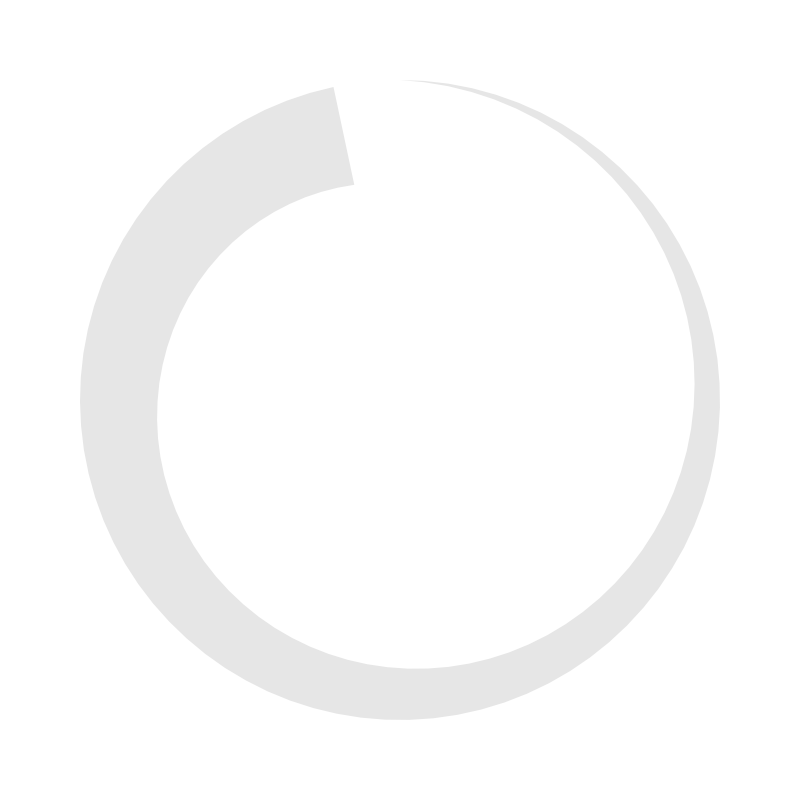
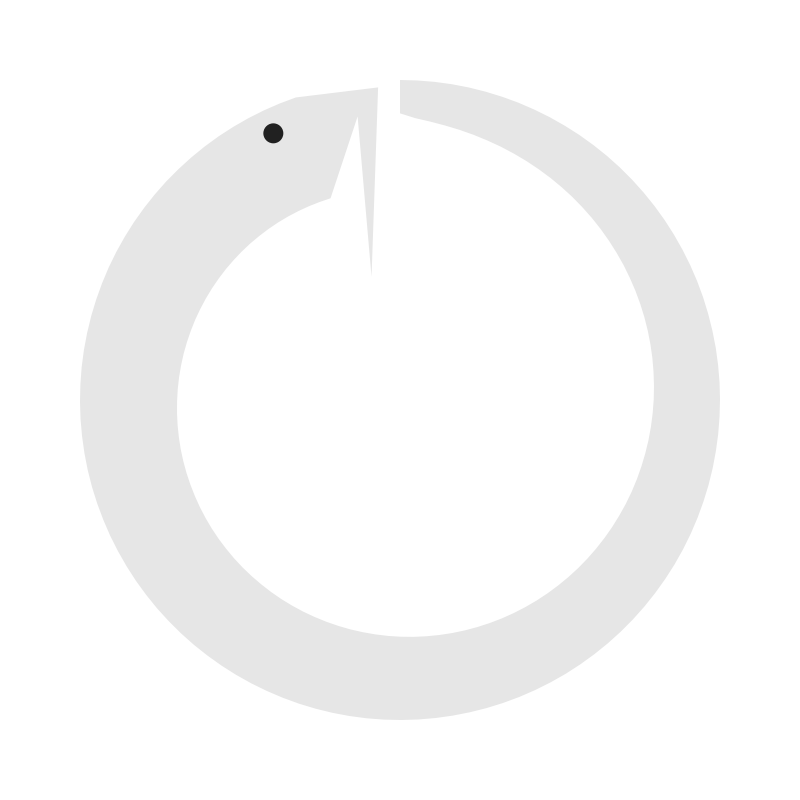
various fixes to right image

Changed region(s): [[0.1875, 0.0938, 0.875, 0.8438], [0.3125, 0.1562, 0.375, 0.1875]]

diff --git a/src/index.html b/src/index.html
@@ -8,21 +8,21 @@
         <link rel="stylesheet" href="styles.css">
     </head>
     <body>
+        <svg class="ouroboros" viewBox="12 12 96 96" aria-hidden="true">
+            <path d="M 60.00,12.00 L 62.60,12.07 L 65.18,12.28 L 67.76,12.63 L 70.31,13.12 L 72.83,13.75 L 75.31,14.51 L 77.75,15.40 L 80.13,16.43 L 82.46,17.58 L 84.72,18.86 L 86.91,20.25 L 89.02,21.77 L 91.05,23.39 L 92.98,25.12 L 94.82,26.96 L 96.55,28.89 L 98.18,30.91 L 99.70,33.02 L 101.10,35.21 L 102.38,37.47 L 103.54,39.79 L 104.57,42.17 L 105.47,44.61 L 106.23,47.09 L 106.86,49.61 L 107.36,52.16 L 107.71,54.73 L 107.93,57.32 L 108.00,59.92 L 107.93,62.51 L 107.73,65.10 L 107.38,67.67 L 106.90,70.23 L 106.28,72.75 L 105.52,75.23 L 104.63,77.67 L 103.61,80.06 L 102.46,82.39 L 101.19,84.65 L 99.79,86.84 L 98.28,88.95 L 96.66,90.98 L 94.93,92.92 L 93.10,94.76 L 91.17,96.50 L 89.15,98.13 L 87.05,99.65 L 84.87,101.06 L 82.61,102.34 L 80.29,103.50 L 77.90,104.54 L 75.47,105.44 L 72.99,106.21 L 70.47,106.84 L 67.92,107.34 L 65.35,107.70 L 62.76,107.92 L 60.17,108.00 L 57.57,107.94 L 54.98,107.74 L 52.41,107.40 L 49.86,106.92 L 47.33,106.30 L 44.85,105.55 L 42.41,104.66 L 40.02,103.64 L 37.69,102.50 L 35.42,101.23 L 33.23,99.84 L 31.11,98.33 L 29.08,96.72 L 27.14,94.99 L 25.30,93.16 L 23.55,91.24 L 21.92,89.22 L 20.39,87.12 L 18.99,84.94 L 17.70,82.68 L 16.53,80.36 L 15.50,77.98 L 14.59,75.55 L 13.81,73.07 L 13.17,70.55 L 12.67,68.00 L 12.31,65.43 L 12.08,62.85 L 12.00,60.25 L 12.06,57.66 L 12.25,55.07 L 12.59,52.49 L 13.07,49.94 L 13.68,47.41 L 14.43,44.93 L 15.31,42.49 L 16.32,40.09 L 17.46,37.76 L 18.73,35.49 L 20.11,33.30 L 21.62,31.18 L 23.23,29.15 L 24.95,27.20 L 26.78,25.36 L 28.70,23.61 L 30.71,21.97 L 32.81,20.44 L 34.99,19.03 L 37.24,17.74 L 39.56,16.57 L 41.94,15.53 L 44.37,14.62 L 56.72,13.11 L 55.73,41.49 L 55.27,28.35 L 49.58,29.74 L 47.94,30.30 L 46.32,30.94 L 44.74,31.67 L 43.20,32.48 L 41.70,33.38 L 40.25,34.36 L 38.86,35.42 L 37.51,36.55 L 36.23,37.76 L 35.02,39.04 L 33.87,40.38 L 32.80,41.79 L 31.80,43.25 L 30.88,44.77 L 30.04,46.35 L 29.28,47.96 L 28.62,49.62 L 28.04,51.32 L 27.55,53.04 L 27.16,54.80 L 26.86,56.58 L 26.66,58.37 L 26.56,60.18 L 26.55,61.99 L 26.64,63.80 L 26.83,65.61 L 27.11,67.41 L 27.50,69.20 L 27.98,70.96 L 28.56,72.70 L 29.23,74.41 L 29.99,76.09 L 30.85,77.73 L 31.79,79.32 L 32.82,80.86 L 33.94,82.34 L 35.13,83.77 L 36.40,85.13 L 37.75,86.42 L 39.17,87.64 L 40.65,88.79 L 42.20,89.86 L 43.81,90.84 L 45.47,91.74 L 47.18,92.54 L 48.94,93.26 L 50.73,93.88 L 52.56,94.41 L 54.42,94.83 L 56.30,95.16 L 58.21,95.39 L 60.12,95.51 L 62.05,95.53 L 63.98,95.44 L 65.90,95.25 L 67.81,94.96 L 69.72,94.56 L 71.60,94.06 L 73.45,93.46 L 75.28,92.76 L 77.06,91.96 L 78.81,91.06 L 80.51,90.07 L 82.16,88.98 L 83.75,87.80 L 85.28,86.54 L 86.74,85.20 L 88.13,83.77 L 89.44,82.27 L 90.68,80.69 L 91.83,79.05 L 92.89,77.34 L 93.87,75.58 L 94.75,73.76 L 95.53,71.89 L 96.21,69.97 L 96.79,68.02 L 97.27,66.04 L 97.64,64.02 L 97.90,61.99 L 98.06,59.93 L 98.10,57.87 L 98.03,55.80 L 97.86,53.73 L 97.57,51.67 L 97.17,49.62 L 96.66,47.59 L 96.04,45.59 L 95.31,43.61 L 94.47,41.67 L 93.54,39.77 L 92.49,37.92 L 91.35,36.12 L 90.11,34.37 L 88.78,32.69 L 87.35,31.08 L 85.84,29.53 L 84.24,28.07 L 82.56,26.68 L 80.80,25.38 L 78.97,24.16 L 77.08,23.04 L 75.12,22.00 L 73.10,21.07 L 71.03,20.22 L 68.91,19.47 L 66.74,18.82 L 64.54,18.24 L 62.29,17.72 L 60.00,17.00 Z" />
+            <circle cx="41" cy="20" r="1.5" fill="rgb(33, 33, 33)" />
+        </svg>
         <div class="content">
-            <div class="name-row">
-                <svg class="ouroboros" viewBox="0 0 120 120" aria-hidden="true">
-                    <path d="M 60.00,12.00 L 63.64,12.14 L 67.26,12.55 L 70.84,13.24 L 74.35,14.20 L 77.79,15.42 L 81.12,16.89 L 84.33,18.62 L 87.39,20.58 L 90.30,22.78 L 93.04,25.18 L 95.59,27.79 L 97.93,30.58 L 100.05,33.54 L 101.94,36.66 L 103.59,39.90 L 104.99,43.27 L 106.13,46.73 L 107.00,50.27 L 107.61,53.86 L 107.93,57.49 L 107.99,61.13 L 107.76,64.77 L 107.26,68.38 L 106.49,71.94 L 105.45,75.43 L 104.15,78.83 L 102.60,82.13 L 100.79,85.29 L 98.76,88.32 L 96.50,91.17 L 94.03,93.85 L 91.36,96.34 L 88.52,98.61 L 85.51,100.66 L 82.35,102.48 L 79.06,104.05 L 75.67,105.37 L 72.18,106.43 L 68.62,107.22 L 65.02,107.74 L 61.38,107.98 L 57.74,107.95 L 54.11,107.64 L 50.51,107.05 L 46.97,106.20 L 43.50,105.08 L 40.13,103.70 L 36.88,102.06 L 33.75,100.19 L 30.78,98.08 L 27.98,95.75 L 25.36,93.22 L 22.94,90.50 L 20.73,87.60 L 18.75,84.54 L 17.01,81.34 L 15.51,78.02 L 14.27,74.59 L 13.30,71.08 L 12.59,67.51 L 12.16,63.89 L 12.00,60.25 L 12.12,56.61 L 12.51,52.99 L 13.18,49.41 L 14.12,45.89 L 15.32,42.45 L 16.78,39.11 L 18.49,35.89 L 20.44,32.81 L 22.62,29.89 L 25.01,27.14 L 27.60,24.58 L 30.38,22.23 L 33.33,20.09 L 36.44,18.18 L 39.68,16.51 L 43.03,15.10 L 46.49,13.94 L 50.02,13.05 L 53.14,27.72 L 50.66,28.15 L 48.20,28.78 L 45.79,29.59 L 43.43,30.60 L 41.15,31.78 L 38.94,33.15 L 36.84,34.68 L 34.85,36.38 L 32.99,38.24 L 31.26,40.25 L 29.68,42.39 L 28.26,44.66 L 27.02,47.04 L 25.95,49.52 L 25.07,52.10 L 24.39,54.74 L 23.90,57.44 L 23.63,60.19 L 23.56,62.96 L 23.70,65.75 L 24.06,68.53 L 24.63,71.29 L 25.42,74.01 L 26.41,76.67 L 27.61,79.27 L 29.01,81.78 L 30.61,84.19 L 32.39,86.47 L 34.36,88.63 L 36.49,90.64 L 38.78,92.50 L 41.21,94.18 L 43.78,95.67 L 46.47,96.98 L 49.26,98.08 L 52.14,98.97 L 55.10,99.64 L 58.11,100.08 L 61.16,100.30 L 64.23,100.28 L 67.31,100.03 L 70.37,99.54 L 73.40,98.81 L 76.38,97.86 L 79.29,96.67 L 82.12,95.26 L 84.84,93.63 L 87.44,91.79 L 89.91,89.75 L 92.22,87.52 L 94.37,85.11 L 96.33,82.53 L 98.10,79.79 L 99.67,76.92 L 101.01,73.92 L 102.13,70.82 L 103.02,67.62 L 103.66,64.36 L 104.05,61.04 L 104.19,57.68 L 104.07,54.32 L 103.70,50.95 L 103.07,47.61 L 102.18,44.31 L 101.04,41.08 L 99.65,37.93 L 98.02,34.89 L 96.15,31.96 L 94.06,29.17 L 91.75,26.54 L 89.24,24.08 L 86.54,21.82 L 83.66,19.75 L 80.62,17.90 L 77.44,16.29 L 74.13,14.91 L 70.71,13.79 L 67.20,12.92 L 63.63,12.33 L 60.00,12.00 Z" />
-                </svg>
-                <div class="name-block">
-                    <h1 class="title"> christian kappel </h1>
-                    <hr class="divider">
+            <div class="name-block">
+                <h1 class="title"> christian kappel </h1>
+                <hr class="divider">
+                <div class="links">
+                    <a href="https://codeberg.org/c-kappel" target="_blank" rel="noopener">zig</a>
+                    <a href="https://engineering.virginia.edu/research/autonomous-racing-uva" target="_blank" rel="noopener">cavauto</a>
+                    <a href="https://github.com/c-kappel" target="_blank" rel="noopener">github</a>
                 </div>
+                <hr class="divider">
             </div>
-            <nav class="links">
-                <a href="https://codeberg.org/c-kappel" target="_blank" rel="noopener">zig</a>
-                <a href="#">uva autonomous car</a>
-                <a href="https://github.com/c-kappel" target="_blank" rel="noopener">github</a>
-            </nav>
         </div>
     </body>
 </html>

diff --git a/src/styles.css b/src/styles.css
@@ -12,6 +12,7 @@ body {
     box-sizing: border-box;
     padding-top: 20vh;
     overscroll-behavior-y: contain;
+    position: relative;
 }
 
 .content {
@@ -19,17 +20,14 @@ body {
     margin-left: 25vw;
 }
 
-.name-row {
-    display: flex;
-    align-items: center;
-    gap: 0.75rem;
-}
-
 .ouroboros {
-    width: 2.5rem;
-    height: 2.5rem;
-    flex-shrink: 0;
-    fill: rgb(180, 180, 180);
+    position: absolute;
+    left: 62.5vw;
+    top: calc(20vh + 2.4rem);
+    transform: translateX(-50%);
+    width: 25rem;
+    height: 25rem;
+    fill: rgb(230, 230, 230);
 }
 
 .name-block {
@@ -49,15 +47,19 @@ body {
     width: 100%;
 }
 
+.links-block {
+    width: fit-content;
+}
+
 .links {
     display: flex;
     flex-direction: column;
     align-items: flex-start;
-    font-size: 1rem;
+    font-size: 1.2rem;
 }
 
 .links a {
-    color: rgb(180, 180, 180);
+    color: rgb(255, 255, 255);
     text-decoration: none;
     margin-bottom: 0.4rem;
 }
